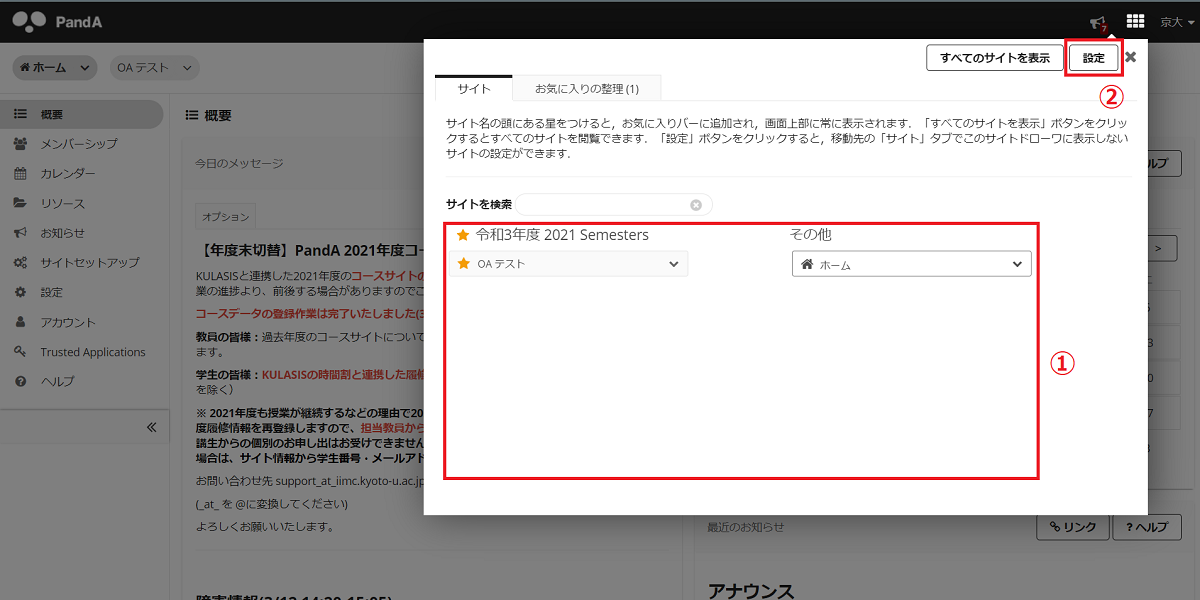
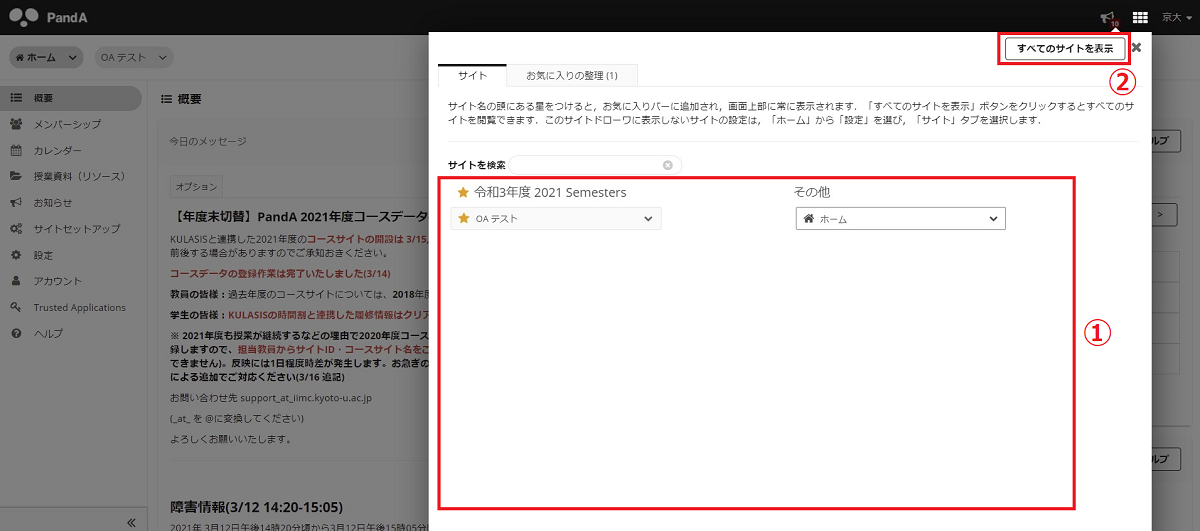
コースサイトの追加について文面を修正する

diff --git a/templates/add_coursesite.htm b/templates/add_coursesite.htm
@@ -71,23 +71,34 @@
                                 科目名の左側の&#9733;をクリックしてお気に入りに登録することで科目タブにコースサイトを追加できます。<br>
                                 また、逆に解除することでコースサイトを削除できます。ただしお気に入りが10件を超えた場合、上から10件のコースサイトのみが
                                 上部の科目タブに表示されます。<br>
-                                <font color="#ff0000">&#9312;</font>にも表示されない科目がある場合は<font color="#ff0000">&#9313;</font>[設定]ボタンをクリックして次に進んでください。
+                                <font color="#ff0000">&#9312;</font>にも表示されない科目がある場合は<font color="#ff0000">&#9313;</font>[すべてのサイトを表示]ボタンをクリックして次に進んでください。
                             </p>
                         </div>
                     </div>
                     <div class="step step3">
                         <div class="image">
+                            <img src="/static/images/add_coursesite_step3.png" alt="">
+                        </div>
+                        <div class="instructions">
+                            <p>
+                                「ホーム」の「サイトセットアップ」に遷移し、<font color="#ff0000">&#9312;</font>で自分のコースサイトが全て確認できます。
+                                コースサイトについて科目タブ/サイトドローワーの表示/非表示を切り替える場合は<font color="#ff0000">&#9313;</font>をクリックして次に進んでください。
+                            </p>
+                        </div>
+                        <div class="image">
                             <img src="/static/images/add_coursesite_step3-a.png" alt="">
                         </div>
                         <div class="instructions">
                             <p>
-                                設定ページに移動したらサイトタブを選択します。
+                                設定ページに移動したら「サイト」タブを選択します。
                             </p>
+                        </div>
                         <div class="image">
                             <img src="/static/images/add_coursesite_step3-b.png" alt="">
                         </div>
+                        <div>
                             <p>
-                                サイトドローワーから非表示にしたコースがある場合、上のように表示されるので
+                                サイトドローワーから非表示にしたいコースがある場合、上のように表示されるので
                                 非表示&#8594;表示としたいコースについてチェックマークを外したうえ[設定を更新]ボタンを押下してください。
                             </p>
                         </div>
